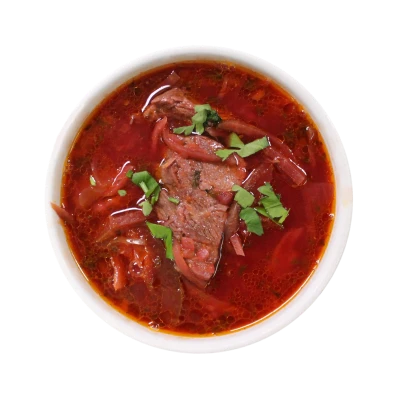
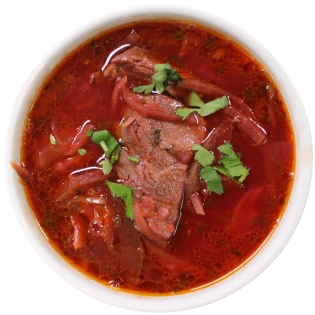
fix images in favorites

diff --git a/src/partials/favorites.html b/src/partials/favorites.html
@@ -7,7 +7,7 @@
     <ul class="favorites__list">
       <li class="favorites__item">
         <a href="" class="favorites__link">
-          <picture class="favorites__img">
+          <picture>
             <!--Desktop-->
             <source
               media="(min-width: 1280px)"
@@ -69,7 +69,7 @@
       </li>
       <li class="favorites__item">
         <a href="" class="favorites__link">
-          <picture class="favorites__img">
+          <picture>
             <!--Desktop-->
             <source
               media="(min-width: 1280px)"
@@ -126,15 +126,11 @@
             <!--fallback-->
             <img src="./images/favorites/img-2@1x_lg.png" alt="pasta" />
           </picture>
-
-            <!--fallback-->
-            <img src="./images/favorites/img-2@1x_lg.png" alt="pasta" />
-          </picture>
         </a>
       </li>
       <li class="favorites__item">
         <a href="" class="favorites__link">
-          <picture class="favorites__img">
+          <picture>
             <!--Desktop-->
             <source
               media="(min-width: 1280px)"
@@ -196,7 +192,7 @@
       </li>
       <li class="favorites__item favorites__item--mobile">
         <a href="" class="favorites__link">
-          <picture class="favorites__img">
+          <picture>
             <!--Desktop-->
             <source
               media="(min-width: 1280px)"
@@ -236,13 +232,12 @@
             <!--fallback-->
 
             <img src="./images/favorites/img-4@1x_md.png" alt="chicken" />
-
           </picture>
         </a>
       </li>
       <li class="favorites__item favorites__item--mobile">
         <a href="" class="favorites__link">
-          <picture class="favorites__img">
+          <picture>
             <!--Desktop-->
             <source
               media="(min-width: 1280px)"
@@ -286,7 +281,7 @@
       </li>
       <li class="favorites__item favorites__item--mobile">
         <a href="" class="favorites__link">
-          <picture class="favorites__img">
+          <picture>
             <!--Desktop-->
             <source
               media="(min-width: 1280px)"

diff --git a/src/sass/layout/_favorites.scss b/src/sass/layout/_favorites.scss
@@ -59,7 +59,7 @@
   /*border: 11px solid #FFE550;
     border-radius: 140px;*/
   width: 250px;
-  height: 250px;
+  height: 252px;
 
   @media screen and (min-width: 480px) {
     width: 280px;
@@ -96,7 +96,7 @@
   align-items: center;
   justify-content: center;
   width: 250px;
-  height: 250px;
+  height: 252px;
   transition: border-color $time-cubic;
 
   @media screen and (min-width: 480px) {
@@ -122,23 +122,4 @@
 .favorites__link:focus,
 .favorites__link:active {
   border-color: #bbf330;
-}
-
-.favorites__img {
-  width: 206px;
-  height: 206px;
-  @media screen and (min-width: 480px) {
-    width: 224px;
-    height: 224px;
-  }
-
-  @media screen and (min-width: 768px) {
-    width: 268px;
-    height: 270px;
-  }
-
-  @media screen and (min-width: 1280px) {
-    width: 315px;
-    height: 315px;
-  }
 }
